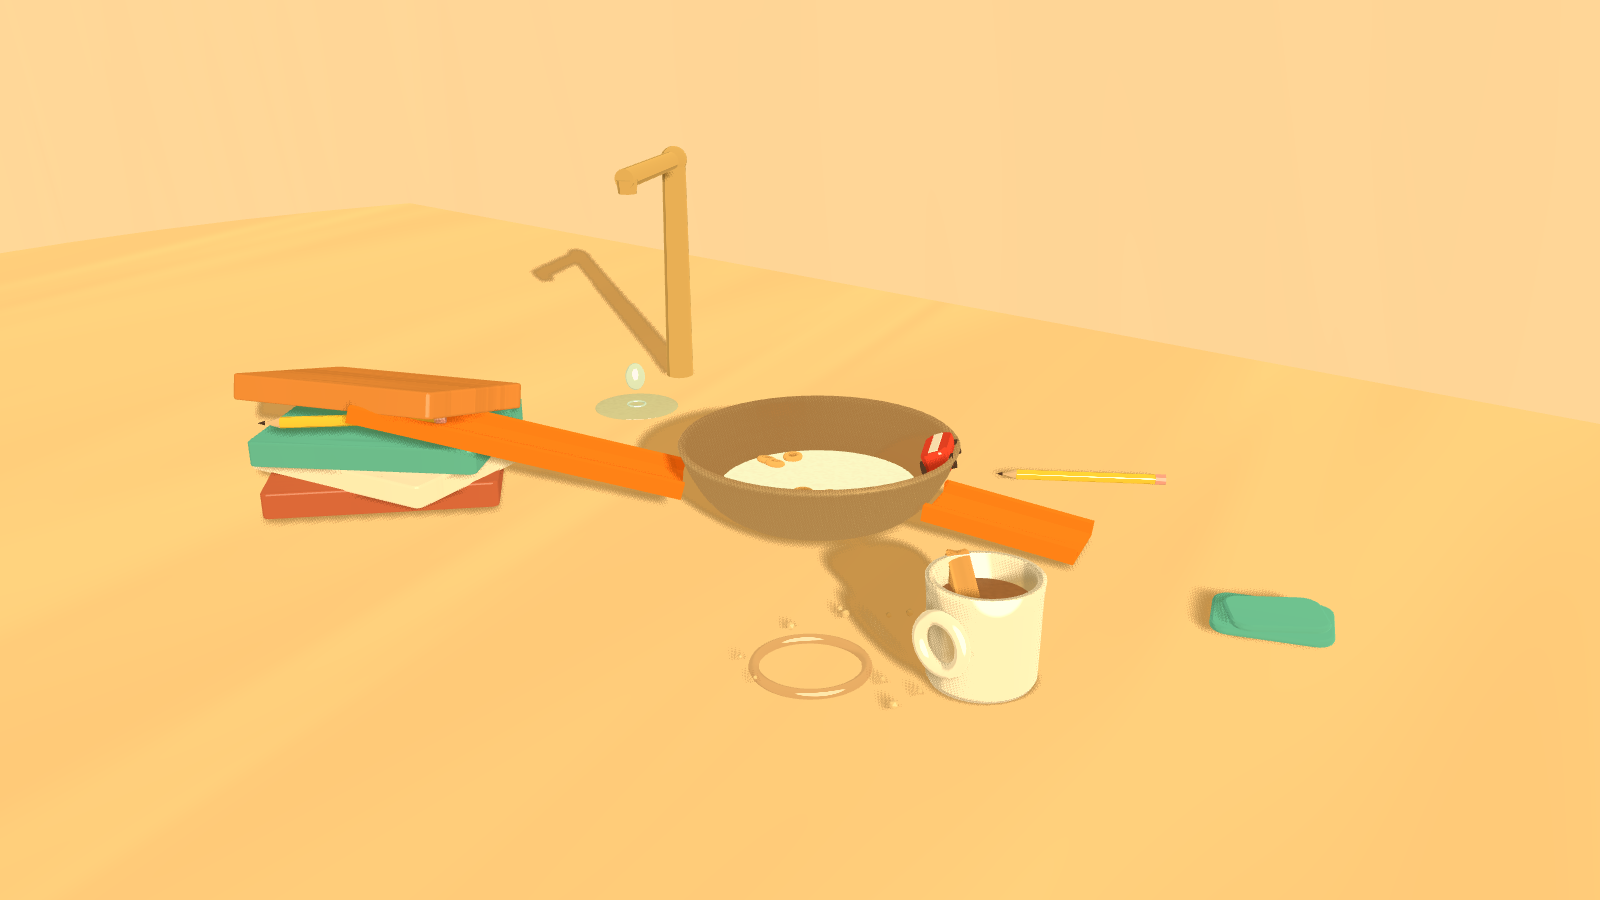
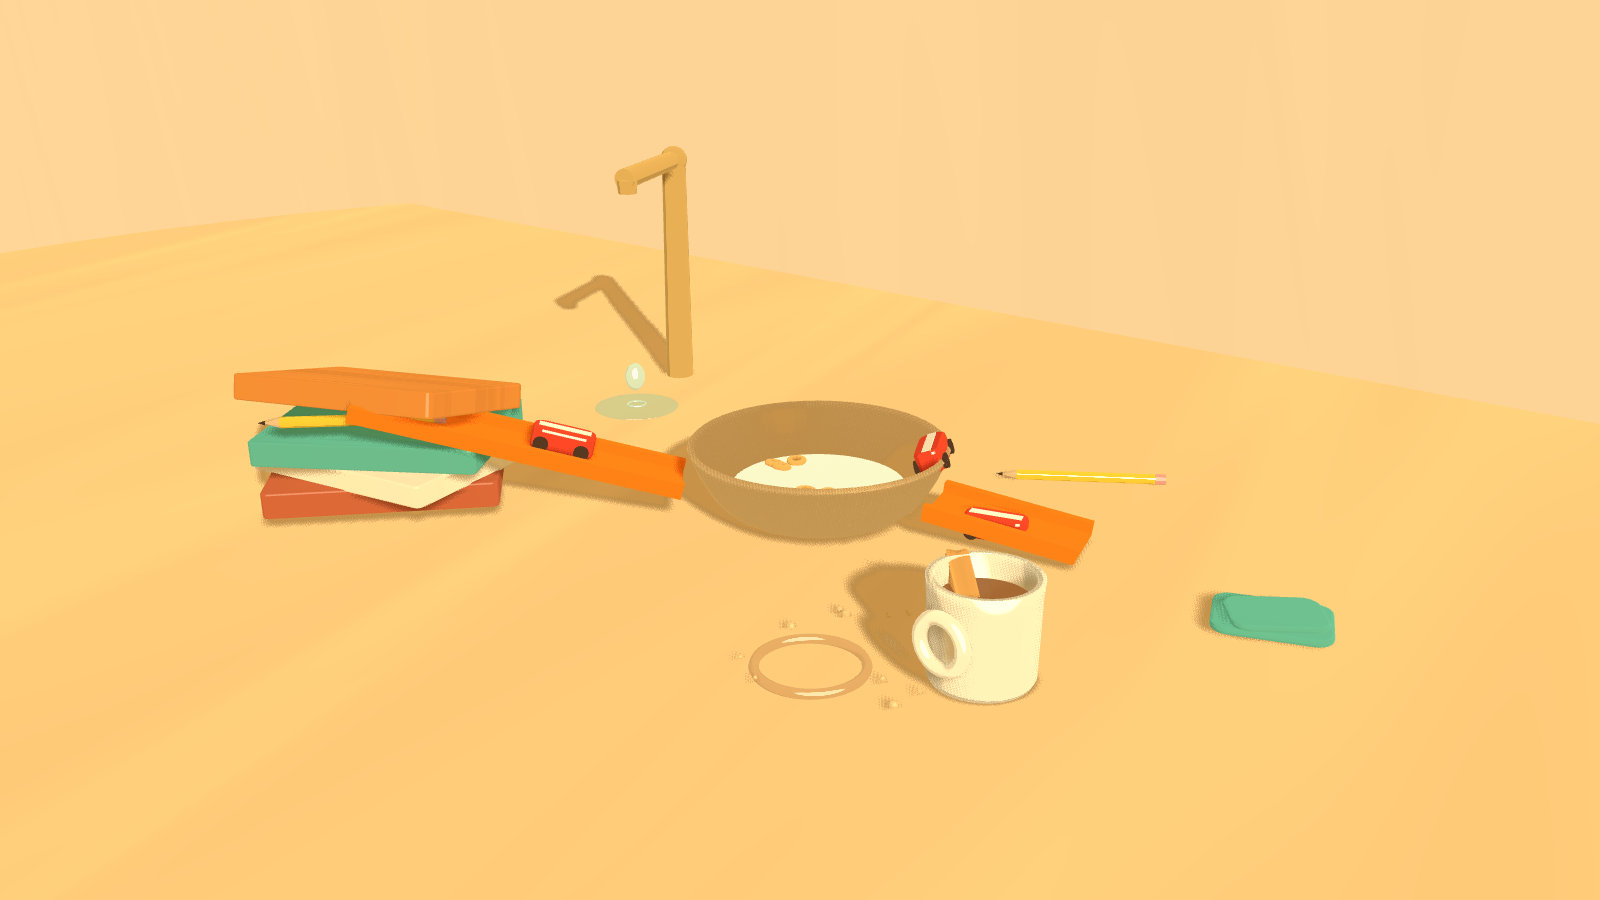
stage 1: environment artist B - bowl shading band, second and third cars, key raised to clear rim shadow

diff --git a/src/dev/scenes/kitchen-b.ts b/src/dev/scenes/kitchen-b.ts
@@ -284,7 +284,7 @@ function kitchenScene(): SceneFactory {
     // One gold key, low — breakfast sun with long shadows that fly away
     // from camera so the forms read in every rig.
     const key = new THREE.DirectionalLight(GLOBAL_TOKENS.keyLight, KEY_INTENSITY)
-    key.position.set(0.95, 0.42, 0.62)
+    key.position.set(0.9, 0.55, 0.6)
     key.castShadow = true
     key.shadow.mapSize.set(2048, 2048)
     key.shadow.camera.left = -1.2
@@ -316,24 +316,38 @@ function kitchenScene(): SceneFactory {
     wall.receiveShadow = true
     scene.add(wall)
 
-    // monumental cereal bowl — the banked turn. Double-sided lathe; the
-    // interior reads as ceramic in shade via the warm shadow band.
+    // monumental cereal bowl — the banked turn. The flared rim self-shadows
+    // the wall below it; the bowl's shadow band is set to a bright warm gold
+    // so that band reads as ceramic in shade, never grey.
     const bowlMat = ceramic(tokens, '#E5C187', {
       ...fillOver(),
-      shadowTint: '#E8A658',
-      ramp: { steps: [0.6, 1.0], thresholds: [0.3], softness: 0.08 },
+      shadowTint: '#F5C97E',
+      ramp: { steps: [0.78, 1.0], thresholds: [0.12], softness: 0.1 },
       specular: { size: 0.55, strength: 0.22 },
       diffuseStrength: 0.92,
     })
     bowlMat.side = THREE.DoubleSide
-    const bowl = new THREE.Mesh(bowlForm(0.105, 0.056, 0.005), bowlMat)
+    const bowl = new THREE.Mesh(bowlForm(0.098, 0.054, 0.005), bowlMat)
     props(bowl)
     bowl.position.set(0.01, 0, -0.01)
     scene.add(bowl)
 
+    // a second car, on the ramp, caught mid-descent
+    {
+      const runner = car()
+      const a = new THREE.Vector3(-0.24, 0.09, 0.22)
+      const b = new THREE.Vector3(-0.06, 0.024, 0.06)
+      runner.position.lerpVectors(a, b, 0.62)
+      runner.position.y += 0.006
+      const d = b.clone().sub(a).normalize()
+      runner.lookAt(runner.position.x + d.x, runner.position.y + d.y, runner.position.z + d.z)
+      runner.rotateY(-Math.PI / 2)
+      scene.add(runner)
+    }
+
     // milk settled in the bottom, with a few cereal rings floating
     const milk = new THREE.Mesh(
-      new THREE.CylinderGeometry(0.078, 0.07, 0.003, 40),
+      new THREE.CylinderGeometry(0.066, 0.06, 0.003, 40),
       liquid(tokens, '#F7EFDE', { ...fillOver(), opacity: 0.95, liquid: 0.08 }),
     )
     milk.position.set(0.01, 0.02, -0.01)
@@ -348,7 +362,7 @@ function kitchenScene(): SceneFactory {
       const rnd = makeRng(911)
       for (let i = 0; i < 6; i++) {
         const a = rnd() * Math.PI * 2
-        const r = 0.014 + rnd() * 0.05
+        const r = 0.012 + rnd() * 0.042
         d.position.set(0.01 + Math.cos(a) * r, 0.023, -0.01 + Math.sin(a) * r)
         d.rotation.set(-Math.PI / 2 + (rnd() - 0.5) * 0.5, 0, rnd() * 3)
         d.updateMatrix()
@@ -358,11 +372,20 @@ function kitchenScene(): SceneFactory {
     props(rings)
     scene.add(rings)
 
+    // a third car, racing out along the flat run — floor-camera's hero
+    {
+      const racer2 = car()
+      racer2.position.set(0.145, 0.0045, -0.043)
+      racer2.lookAt(0.145 + 0.96, 0.0041, -0.043 - 0.25)
+      racer2.rotateY(-Math.PI / 2)
+      scene.add(racer2)
+    }
+
     // the car riding the bowl's banked rim — the story of the tile
     const racer = car()
     const psi = -Math.PI * 0.15
-    const rx = 0.01 + Math.cos(psi) * 0.093
-    const rz = -0.01 + Math.sin(psi) * 0.093
+    const rx = 0.01 + Math.cos(psi) * 0.088
+    const rz = -0.01 + Math.sin(psi) * 0.088
     racer.position.set(rx, 0.045, rz)
     racer.lookAt(rx - Math.sin(psi) * 0.06, 0.045, rz + Math.cos(psi) * 0.06)
     racer.rotateY(-Math.PI / 2)
